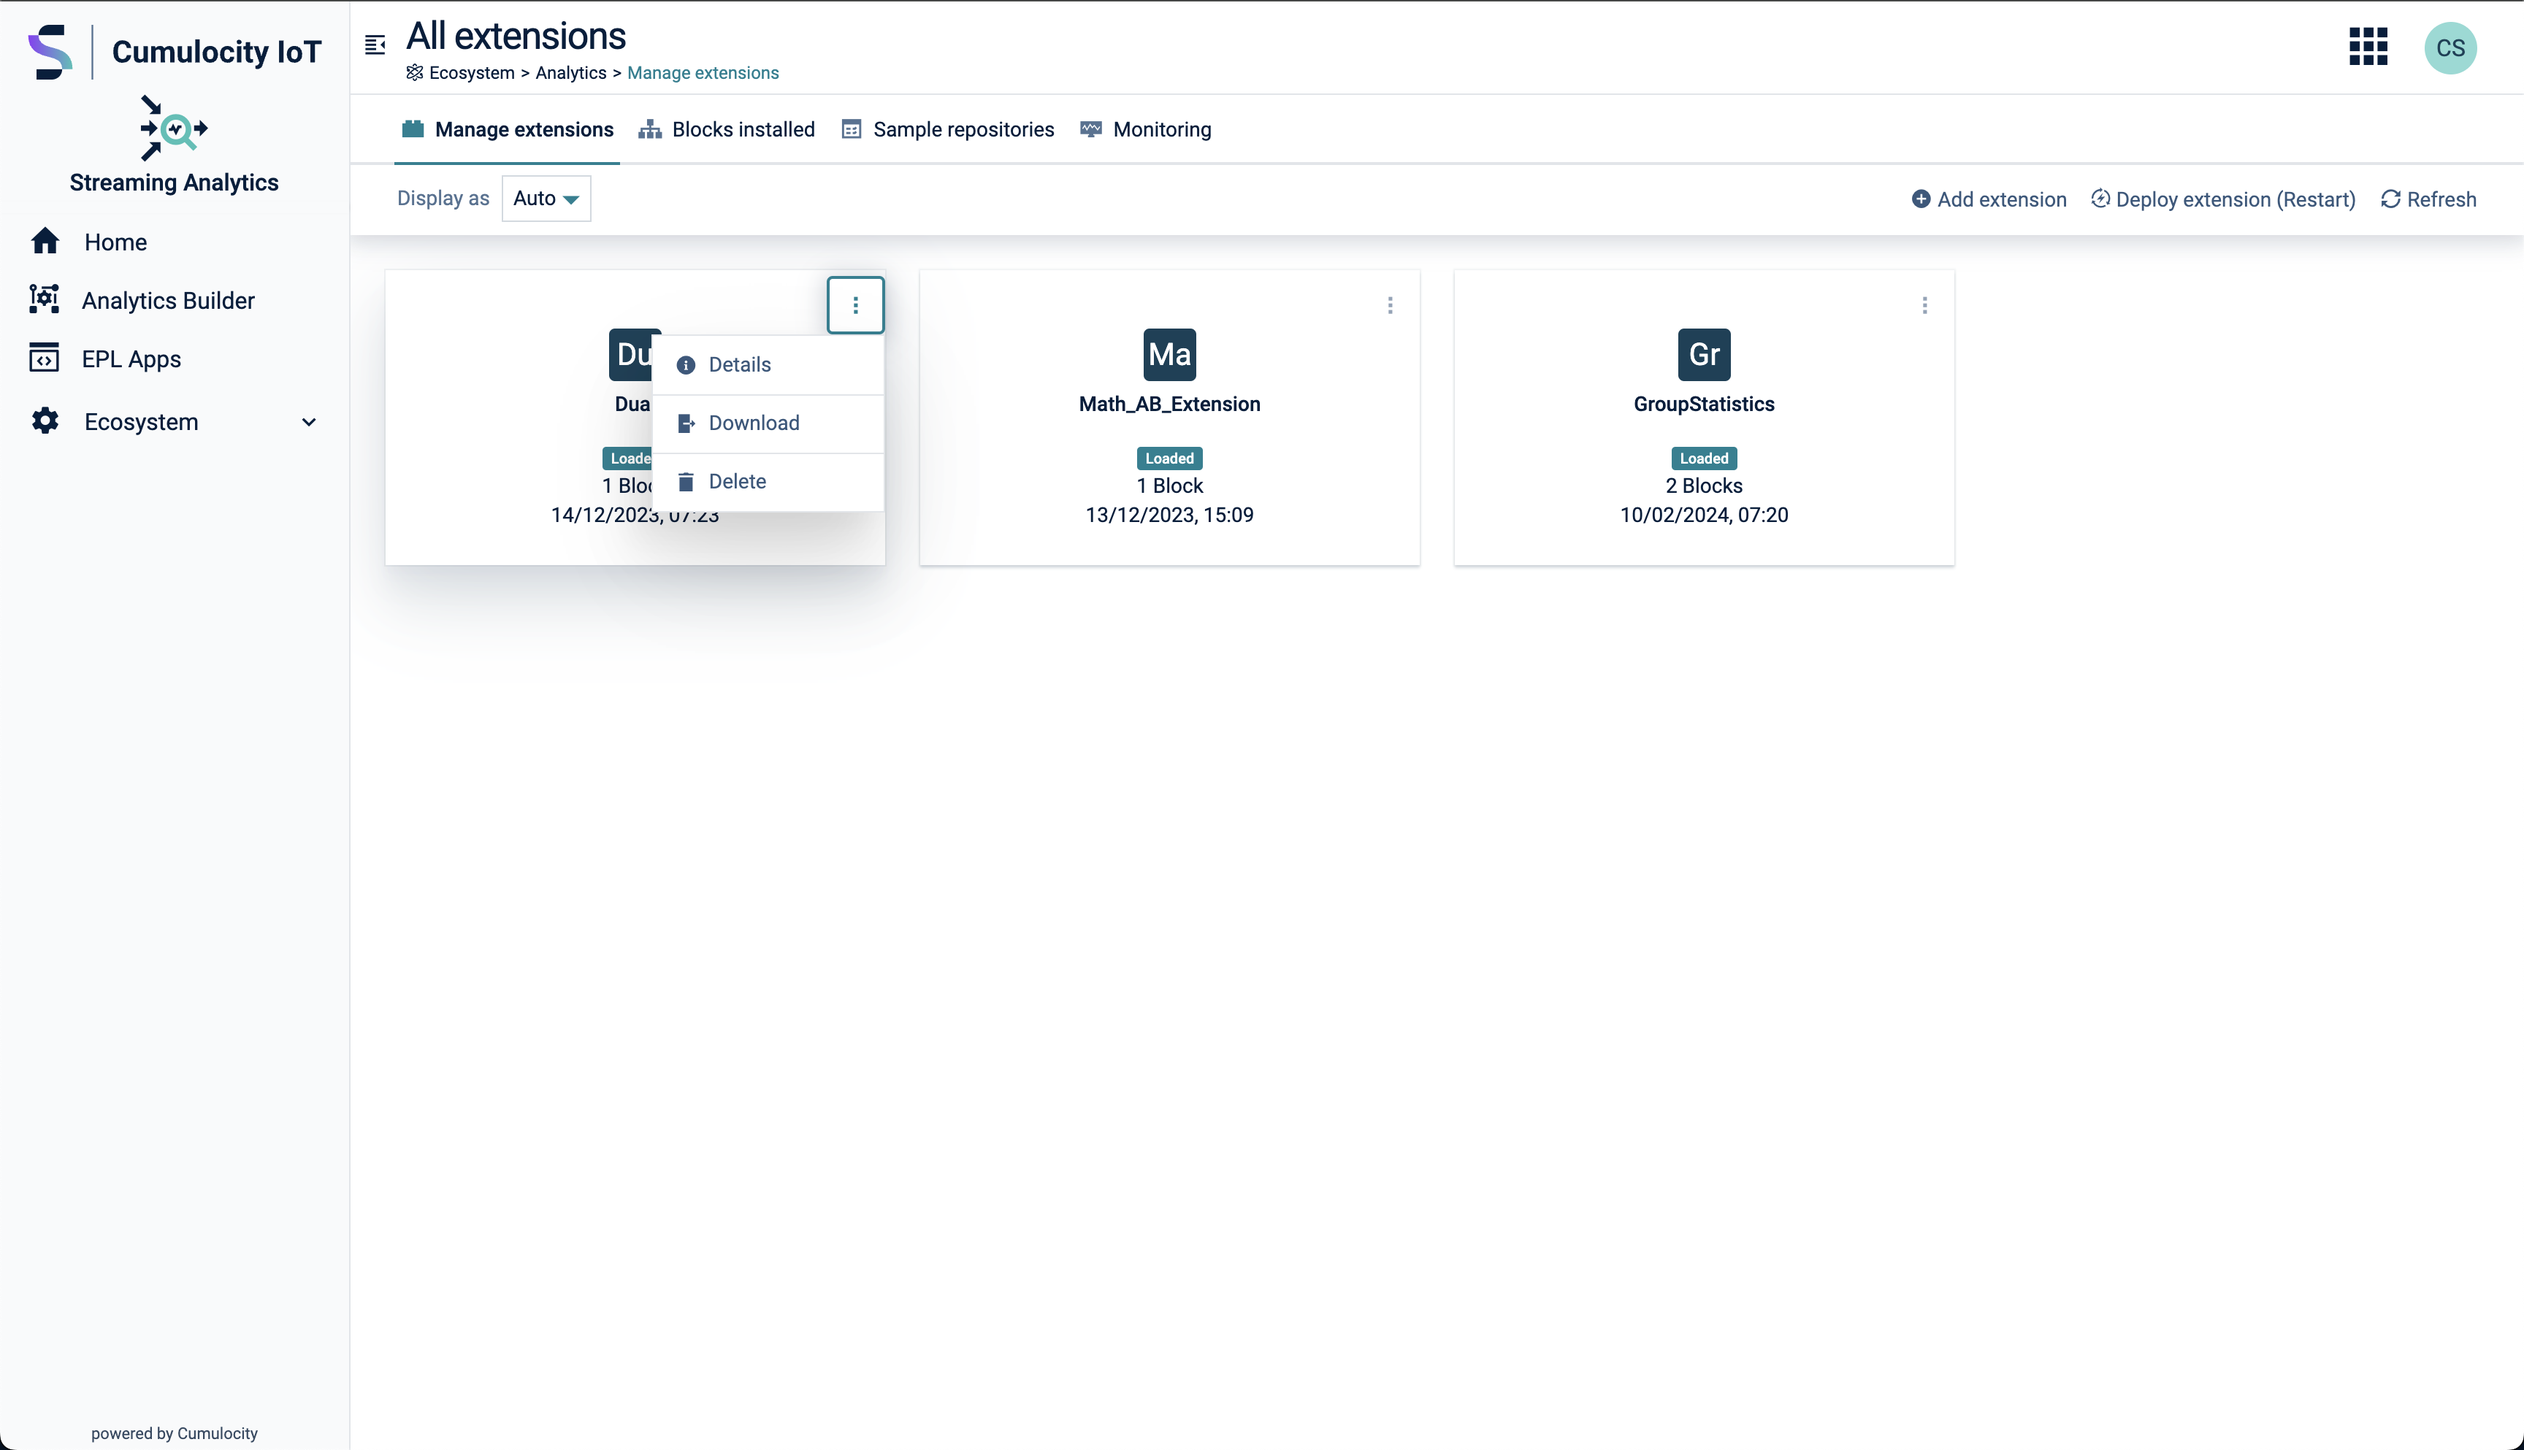
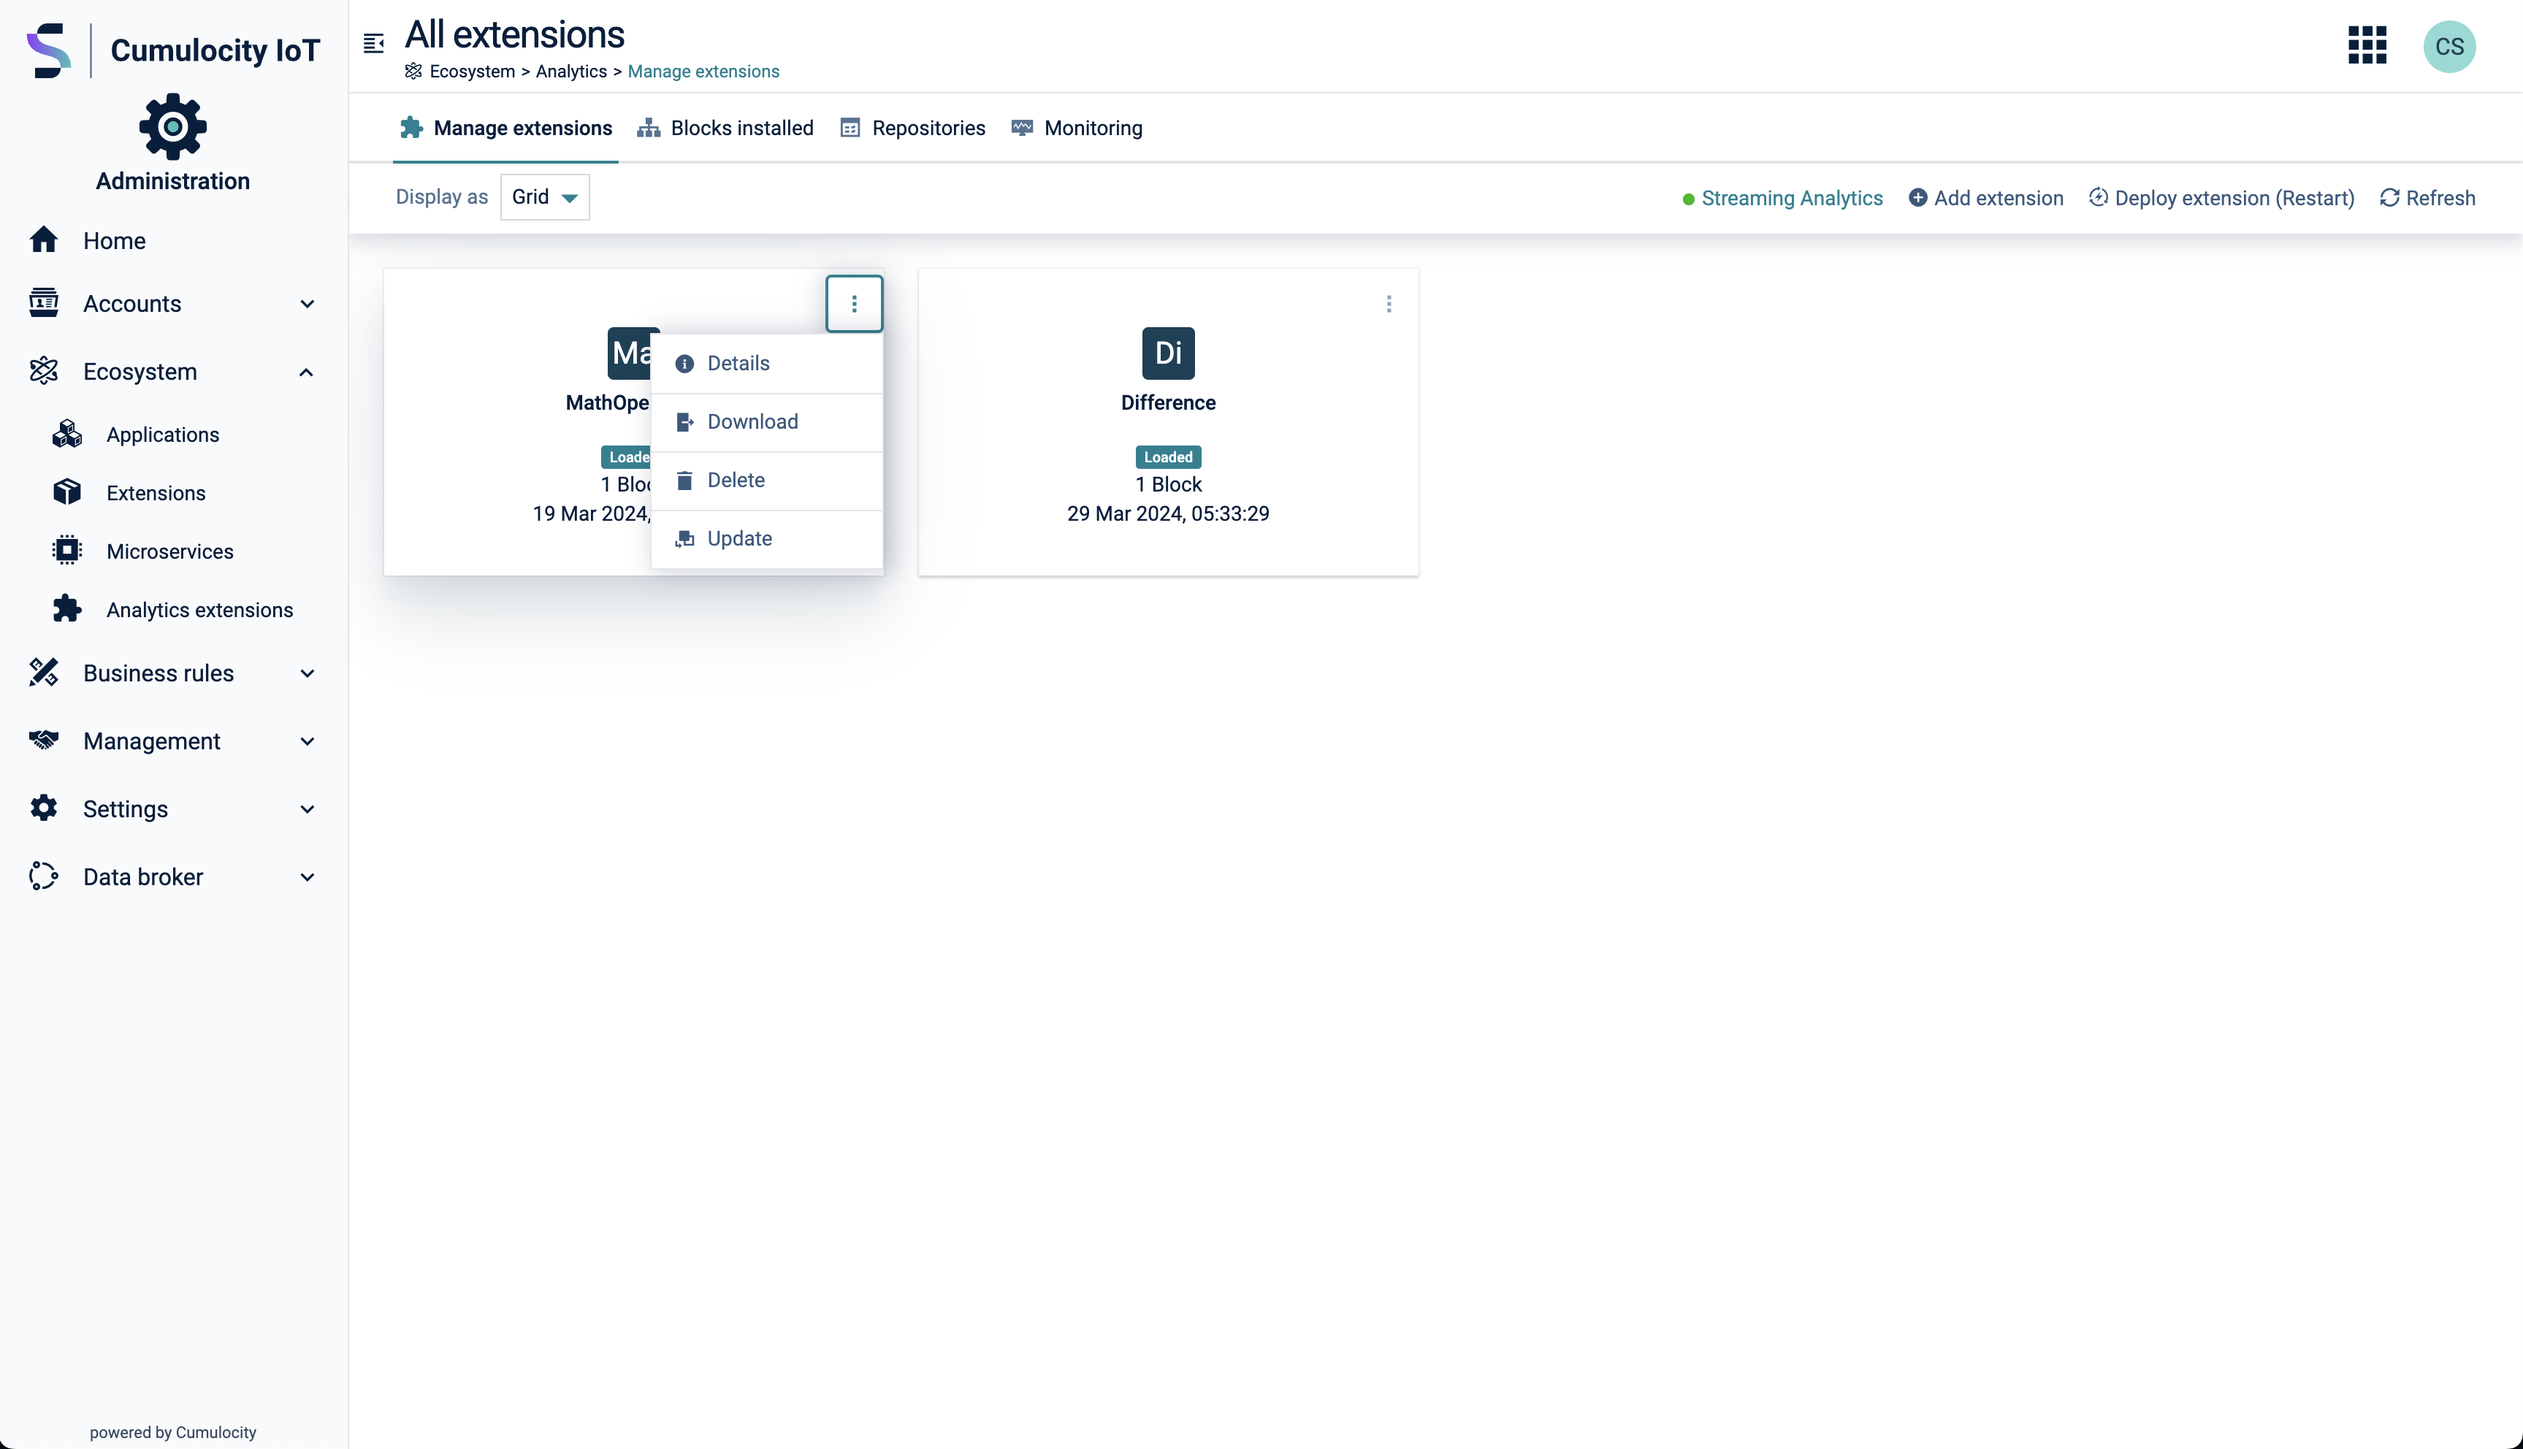
update documentation

diff --git a/README.md b/README.md
@@ -19,7 +19,7 @@
 This solution extends the functionality of the standard Cumulocity Streaming Analytics application by incorporating a plugin to manage and add Analytics Builder extensions. The current standard user interface lacks the capability to upload custom blocks packaged as **.zip** files. This plugin enhances the Streaming-Analytics UI by introducing these capabilities.
 
 The extension allows you to manage the complete lifecycle of an extension:
-* List, upload, download, and delete Analytics Builder extensions.
+* List, upload, download, update and delete Analytics Builder extensions.
 * List installed blocks.
 * Manage GitHub repositories, which act as a source for dynamically building new extensions.
 * Build new extensions from selected blocks and deploy them in the Streaming Analytics engine.
@@ -41,6 +41,9 @@ For a deletion or upload to take effect you need to restart the analytics stream
 
 An externally built extensions can be uploaded via the button **Add extension**. 
 Simply drop the **.zip** file to the modal dialog and the extension will be loaded to the repository, but not yet deployed. To use them, restart the Streaming Analytics engine by clicking on the button **Deploy extension (Restart)** and wait for the notification confirming the engine restart.
+When you try to add an extension with a name that already exists, you have the choice to confirm that the version of the existing extension is replaces with the new one you are about to upload. You can as well cancel the process if this is not what you intend.
+
+![Build custom extension](resources/images/manage-extension-modal.png)
 
 After the deployment (restart of streaming analytics) the block will be available within the Streaming Analytics Application.
 
@@ -61,9 +64,11 @@ You can build and uploads a custom extension by following the screen flow below:
 
 ### Options for custom extension
 For a custom extension you have the following options:
-* Delete: deletes the custom extension permanently. To take effect you need to restart the streaming analytics engine
+* Delete: deletes the custom extension permanently. To take effect you need to restart the streaming analytics engine.
+* Update: updates the custom extension with a new version of the extension. To take effect you need to restart the streaming analytics engine.
 * Details: lists the included blocks of the custom extension on a detail page.
 * Download: downloads the custom extension as a zip file.
+
 
 ![Build custom extension](resources/images/manage-extension.png)
 
